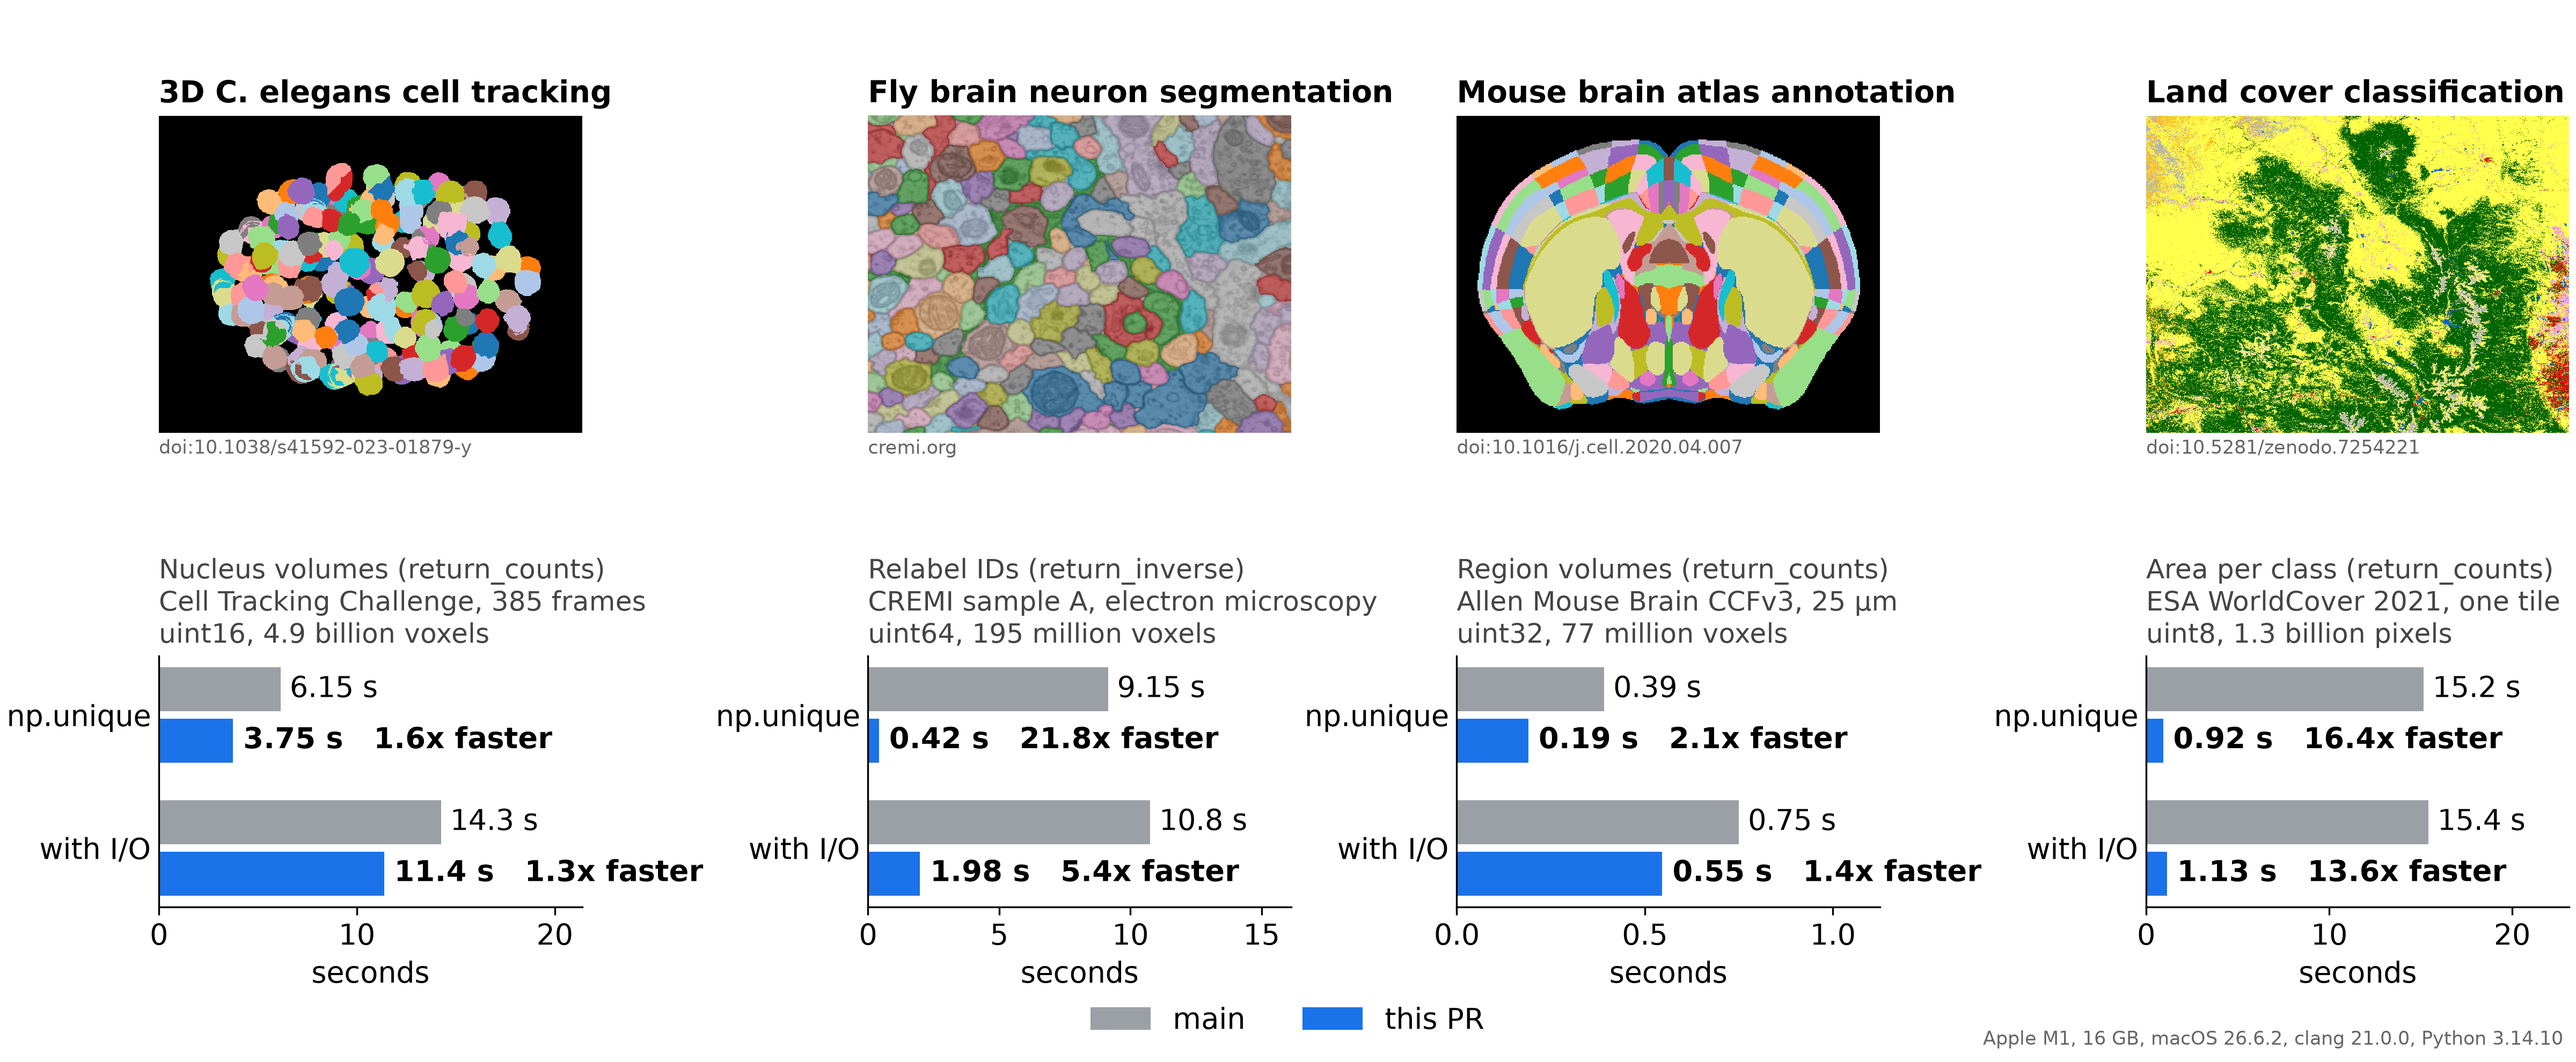
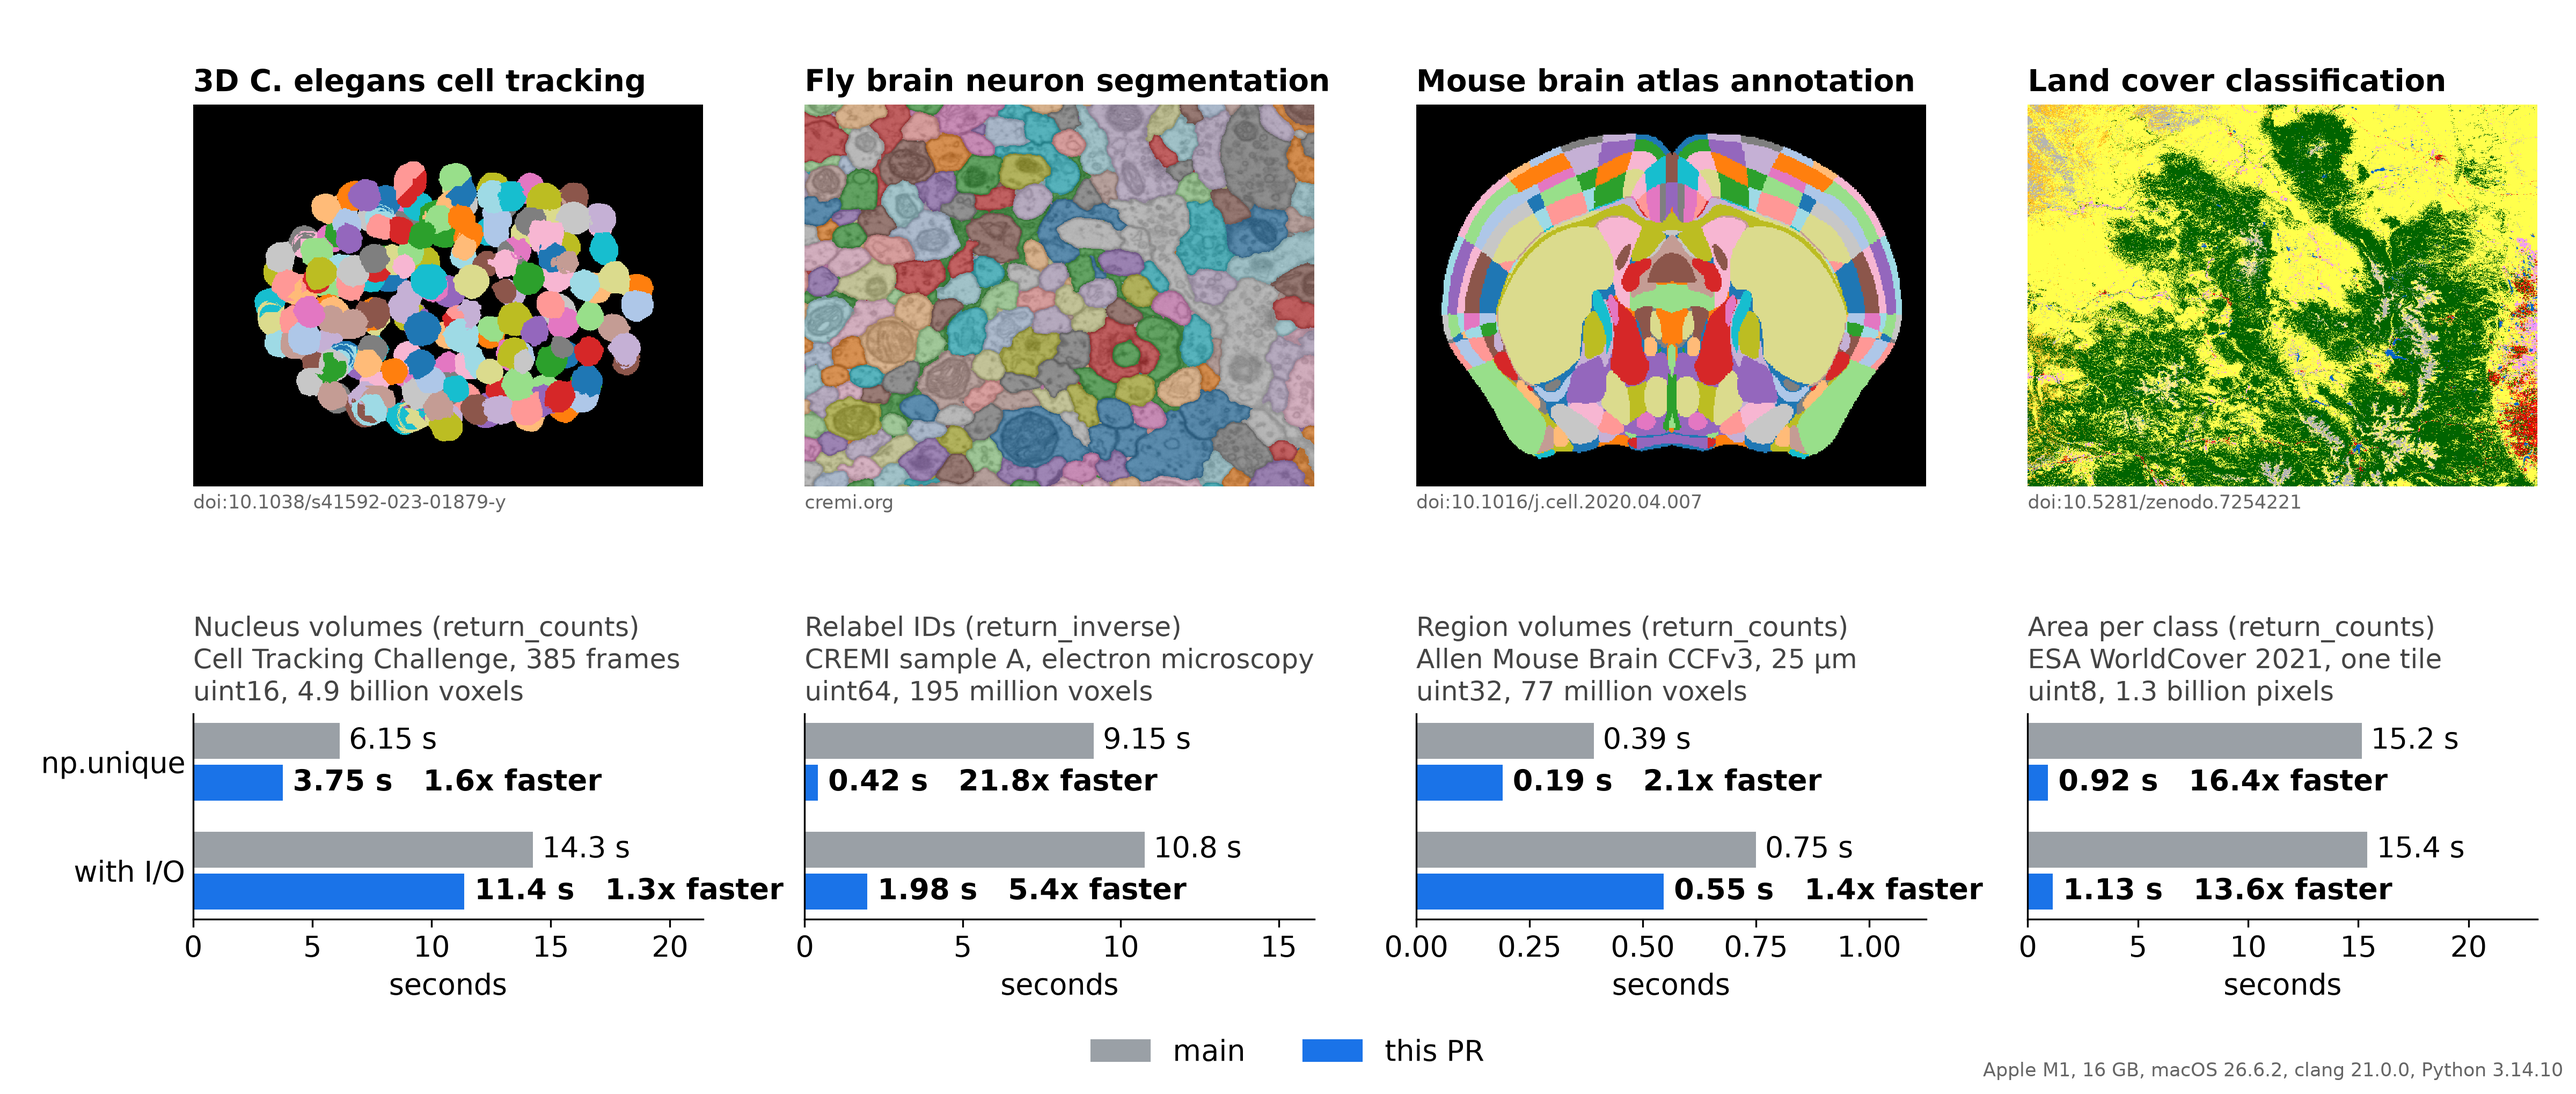
Even columns, equal images, bar labels on the first panel only

diff --git a/summary_plot.py b/summary_plot.py
@@ -179,7 +179,9 @@ if "machine" not in saved:
 timings = saved["timings"]
 
 plt.rcParams.update({"font.size": 13, "axes.spines.top": False, "axes.spines.right": False})
-fig, axes = plt.subplots(2, 4, figsize=(16, 6.6), height_ratios=[3.2, 1.5], layout="constrained")
+fig, axes = plt.subplots(2, 4, figsize=(16, 6.8), height_ratios=[3.2, 1.5],
+                         gridspec_kw={"left": 0.075, "right": 0.985, "top": 0.93, "bottom": 0.16,
+                                      "wspace": 0.2, "hspace": 0.62})
 pictures = images()
 for column, (key, workflow) in enumerate(WORKFLOWS.items()):
     top, bottom = axes[0, column], axes[1, column]
@@ -199,14 +201,14 @@ for column, (key, workflow) in enumerate(WORKFLOWS.items()):
             if build != "main":
                 text += f"   {values['main'] / value:.1f}x faster"
             bottom.text(value, y, text, va="center", fontweight="bold" if build != "main" else "normal")
-    bottom.set_yticks([0.5, 3.1], list(groups))
+    bottom.set_yticks([0.5, 3.1], list(groups) if column == 0 else ["", ""])
     bottom.tick_params(axis="y", length=0)
     bottom.invert_yaxis()
     bottom.set_xlim(0, groups["with I/O"]["main"] * 1.5)
     bottom.set_xlabel("seconds")
     bottom.set_title(workflow["analysis"] + "\n" + workflow["data"], loc="left", fontsize=12, color="#444444")
 fig.legend(handles=[Patch(color=COLORS[build], label=build) for build in BUILDS],
-           loc="outside lower center", ncols=2, frameon=False)
+           loc="lower center", ncols=2, frameon=False)
 fig.text(0.995, 0.012, saved["machine"],
          ha="right", va="bottom", fontsize=8.5, color="#666666")
 fig.savefig(HERE / "summary.png", dpi=300, facecolor="white")
